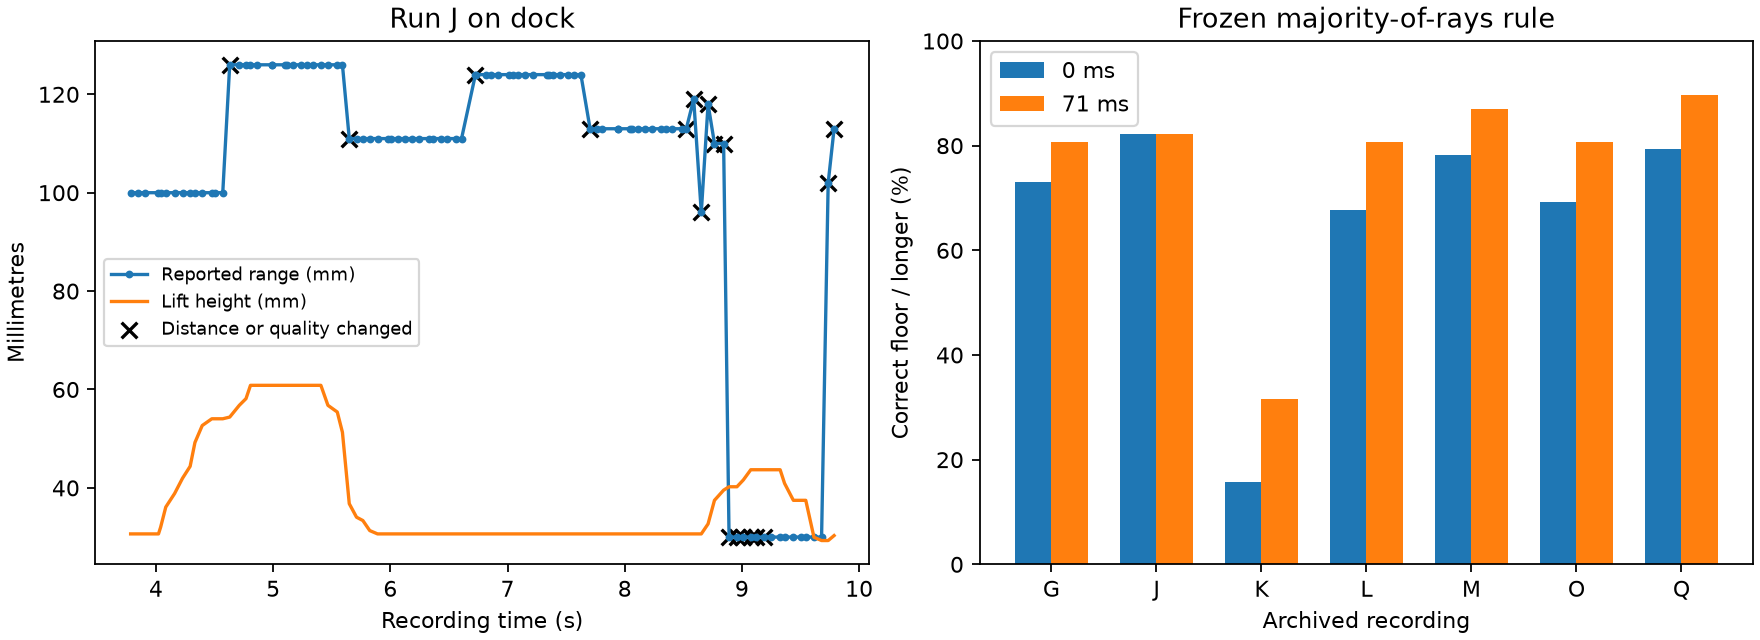
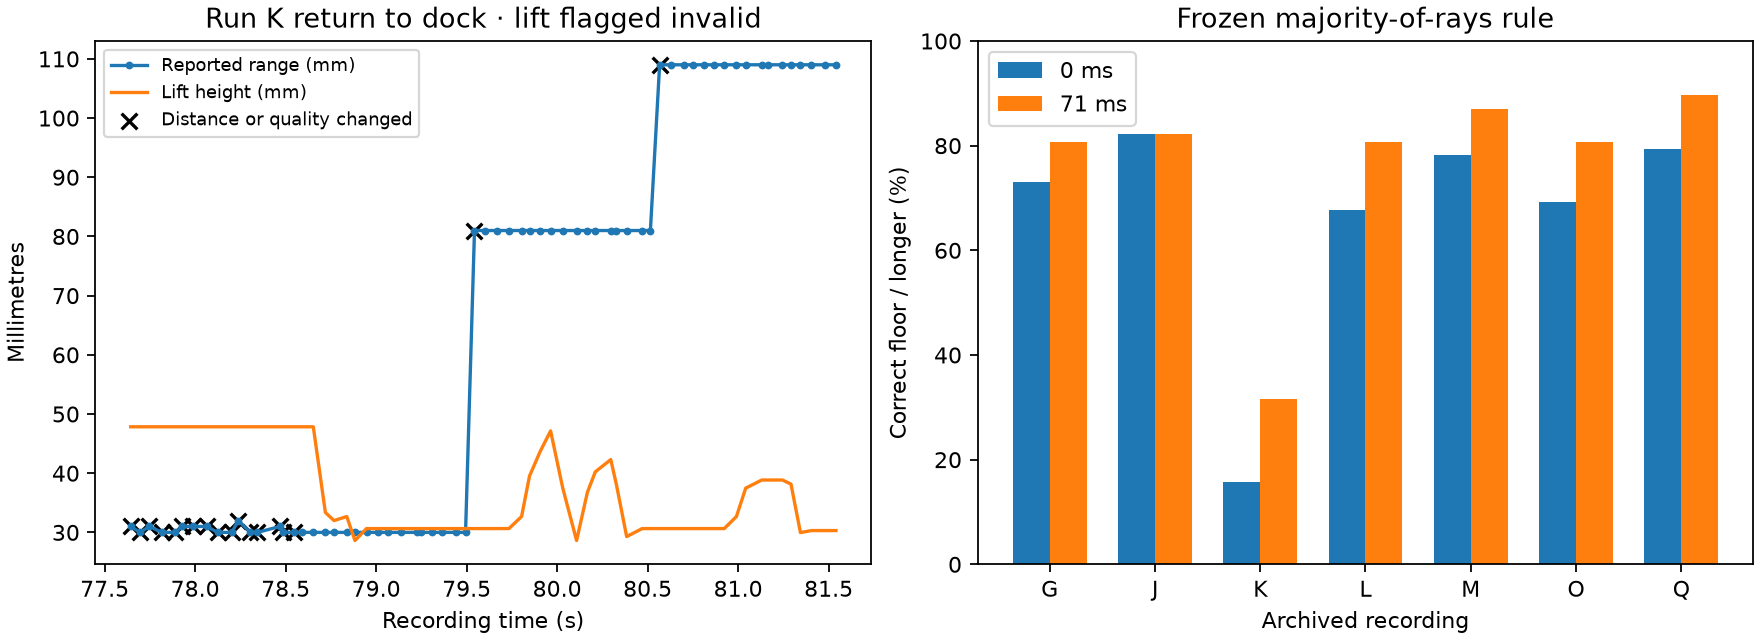
Separate invalid wrist telemetry from docked range timing evidence

diff --git a/evidence/unit3-cube-range/dock_beam.py b/evidence/unit3-cube-range/dock_beam.py
@@ -17,6 +17,7 @@ for run in 'gjklmoq':
     states = [row for row in states if row.get('k') == 's' and 'proxq' in row]
     t, h, dist, quality = np.array([[r[k] for r in states] for k in ('t', 'lift', 'prox', 'proxq')])
     dock = np.array([bool(r['status'] & 4096) and r['wl'] == r['wr'] == 0 for r in states])
+    lift_valid = np.array([not (r['status'] & 0x00400000) for r in states])
     in_band = dock & (h >= 34) & (h <= 56)
     # Age of this exact reported distance/quality pair, a lower bound on repeat duration.
     changes = np.r_[True, (np.diff(dist) != 0) | (np.diff(quality) != 0)]
@@ -31,18 +32,20 @@ for run in 'gjklmoq':
         results.append([run.upper(), int(delay*1000), tp, tn, fp, fn,
                         np.count_nonzero(in_band & (age >= .25)),
                         np.count_nonzero(in_band & changes),
-                        np.count_nonzero(in_band & changes & (majority == floor))])
-    if run == 'j':
+                        np.count_nonzero(in_band & changes & (majority == floor)),
+                        np.count_nonzero(in_band & lift_valid),
+                        np.count_nonzero(in_band & lift_valid & (majority == floor))])
+    if run == 'k':
         keep = (t >= t[in_band][0] - .3) & (t <= t[in_band][-1] + .3)
         trace.plot(t[keep], dist[keep], 'o-', ms=2.5, label='Reported range (mm)')
         trace.plot(t[keep], h[keep], label='Lift height (mm)')
         trace.scatter(t[keep & changes], dist[keep & changes], marker='x', s=50,
                       color='black', label='Distance or quality changed')
-        trace.set(title='Run J on dock', xlabel='Recording time (s)', ylabel='Millimetres')
+        trace.set(title='Run K return to dock · lift flagged invalid', xlabel='Recording time (s)', ylabel='Millimetres')
         trace.legend(fontsize=8)
 with (here/'dock-beam.csv').open('w') as f:
     w = csv.writer(f, lineterminator='\n')
-    w.writerow(['run','delay_ms','true_floor','true_longer','false_floor','missed_floor','pair_age_ge250ms','changed_pair','correct_on_changed_pair'])
+    w.writerow(['run','delay_ms','true_floor','true_longer','false_floor','missed_floor','pair_age_ge250ms','changed_pair','correct_on_changed_pair','lift_valid','correct_with_valid_lift'])
     w.writerows(results)
 for i, delay in enumerate((0,71)):
     rows = [r for r in results if r[1] == delay]

diff --git a/evidence/unit3-cube-range/README.md b/evidence/unit3-cube-range/README.md
@@ -123,3 +123,7 @@ The unchanged majority-of-19-rays rule classified **125/182** minimum-distance v
 In 96/182 rows the reported distance and signal quality had both been constant for at least 250 ms. Restricting the score to the 57 rows where either field actually changed gives **43/57** at zero delay and **49/57** at 71 ms. An unchanged pair can reflect either a repeated report or a fresh equal measurement. SDK arrival time does not identify which. These observations support testing report cadence separately from optical geometry.
 
 [Per-run confusion counts](dock-beam.csv). Run `python dock_beam.py` to recreate the comparison from the archived JSONL and fork-beam.csv.
+
+**Encoder validity changes the interpretation of this result.** The published firmware assigns status bit 0x00400000 to an invalid lift encoder. All 19 selected rows of K and all 28 of J carry that bit. All 135 selected rows from the other five runs clear it. Restricting the comparison to these 135 improves the score from 99/135 at zero delay to 113/135 at 71 ms. K provides evidence about ranging cadence, but its reported wrist height cannot validate fork geometry. [Firmware status definitions](https://github.com/kercre123/victor/blob/669ec7499a7084640b57706a7937884a6568be50/robot/clad/src/clad/types/robotStatusAndActions.clad)
+
+In K the last rapid range/quality change occurred at 78.546 s. The next four changes arrived 997, 1023, 1038 and 1003 ms apart. The published body controller schedules a new front range measurement every 200 body ticks while docked with tread drive inactive, every 12 ticks while off dock with tread drive inactive, or every six ticks with tread drive active. At 5 ms per tick these correspond to 1000, 60 and 30 ms. Tread drive uses motor power, which can differ from measured wheel speed at zero. The one-second sequence agrees with docked slow ranging. The SDK trace lacks the raw acquisition counter and motor power needed to reconstruct every transition. [Body range scheduler](https://github.com/kercre123/victor/blob/669ec7499a7084640b57706a7937884a6568be50/robot/syscon/src/opto.cpp#L76-L100) · [Tread drive determination](https://github.com/kercre123/victor/blob/669ec7499a7084640b57706a7937884a6568be50/robot/syscon/src/motors.cpp#L145-L151)
